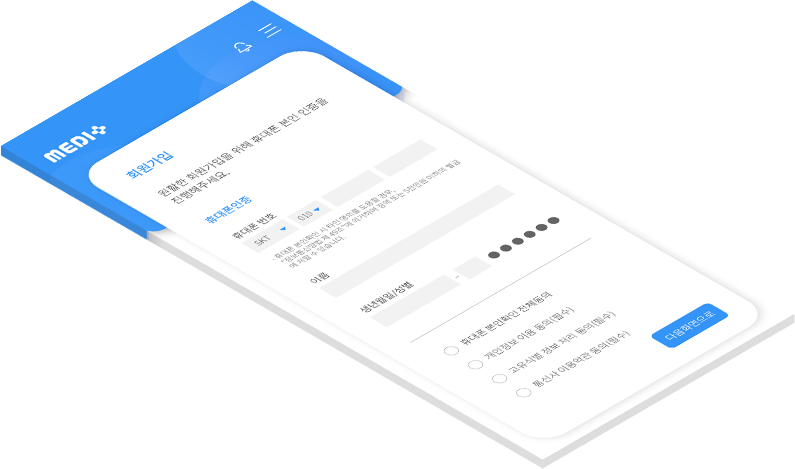
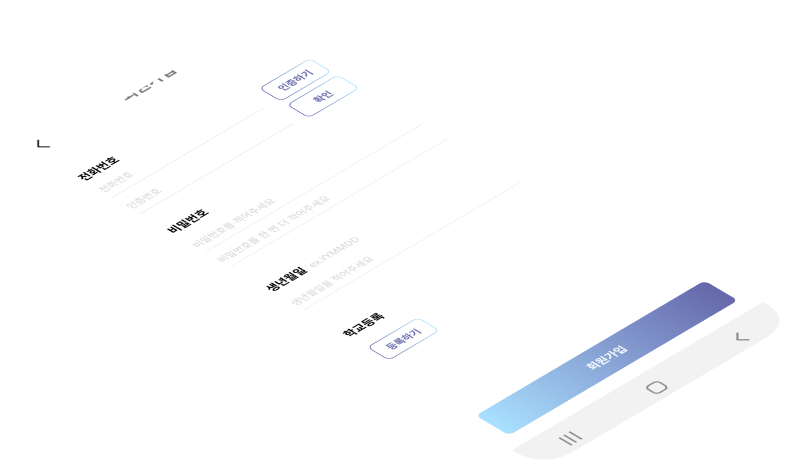
⚡ :: 디자인 & 앱 서비스 설명

diff --git a/index.html b/index.html
@@ -140,7 +140,6 @@
                             </div>
                             <p>Set up Auto Nickname</p>
                         </div>
-
                         <div class="app-box" ontouchstart="this.classList.toggle('hover');">
                             <div class="box-wrap">
                                 <div class="box">나이스 API를 통한<br/>학교 검색</div>
@@ -309,7 +308,7 @@
                         <p class="sub-title-2">키워드로 3가지 디자인 방향성을 설정했습니다.</p>
                         <p class="content">
                             딱딱한 이미지를 완화 시켜줄 부드러운 곡선과 사용자의 편의성을 고려한 UX / UI 디자인.<br />
-                            의료 서비스인 만큼 신뢰를 느낄 수 있도록 하는 것을 중점으로 디자인하였습니다.
+                            익명 서비스인 만큼 신뢰를 느낄 수 있도록 하는 것을 중점으로 디자인하였습니다.
                         </p>
                         <div class="keywordWrap">
                             <!-- 동그라미 svg -->
@@ -424,33 +423,29 @@
                     <p class="title pop">Design</p>
                     <div class="box-wrapper">
                         <div class="box">
-                            <p class="title">SYMBOL MARK</p>
-                            <div class="line"></div>
-                            <div class="img-wrap">
-                                <img src="./images/design-logo-sketch.png" width="263" alt="" />
-                                <img src="./images/design-logo.png" width="163" alt="" />
-                            </div>
-                        </div>
-                        <div class="box">
-                            <p class="title">LOGO IDENTITY</p>
-                            <div class="line"></div>
-                            <div class="img-wrap">
-                                <img src="./images/design-typo-logo-blue.png" width="570" alt="" />
-                                <img src="./images/design-typo-logo-black.png" width="570" alt="" />
-                            </div>
-                        </div>
-                        <div class="box">
                             <p class="title">APP ICON</p>
                             <div class="line"></div>
-                            <p class="content">
-                                우리 메디플러스에게는 기존에 없던 새로운 시도를 더하는 것으로 메디플러스의 슬로건 ’일상에<br />
-                                편리함을 더하다’ 에서 떠올린 플러스 형태입니다. 디자인 키워드를 따라 라운디한 심볼 형태와,<br />
-                                알약의 형태를 더해 의료 서비스임을 직관적으로 보여줍니다.
-                            </p>
                             <div class="img-wrap">
-                                <img src="./images/design-app-logo-white.png" width="154" alt="" />
-                                <img src="./images/design-app-logo-blue.png" width="154" alt="" />
-                                <img src="./images/design-app-logo-navy.png" width="124" alt="" />
+                                <img src="" width="40" alt="" />
+                                <img src="./images/design-logo1.png" width="163" alt="" />
+                                <img src="" width="100" alt="" />
+                                <img src="./images/design-logo2.png" width="163" alt="" />
+                            </div>
+                        </div>
+                        <div class="box">
+                            <p class="title">DESIGN ELEMENTS</p>
+                            <div class="line"></div>
+                            <p class="content">대표 컬러와 서브 컬러로 그라데이션을 넣어 디자인 하였습니다.</p>
+                            <div class="img-wrap">
+                                <img src="./images/elements.png" alt="" />
+                            </div>
+                        </div>
+                        <div class="box">
+                            <p class="title">POST DETAILES</p>
+                            <div class="line"></div>
+                            <p class="content">제목, 내용, 닉네임 등 간략한 정보를 한 눈에 보기 쉬운 UI입니다.</p>
+                            <div class="img-wrap">
+                                <img src="./images/post.png" width="480" alt="" />
                             </div>
                         </div>
                         <div class="box">
@@ -494,7 +489,7 @@
                     <div class="base-service join">
                         <img src="./images/app-join.png" alt="회원가입 화면" />
                         <div class="discript">
-                            <p>개인화 맞춤형 알림 서비스 제공</p>
+                            <p>나이스 API를 통해 학교 등록 및 본인 인증</p>
                             <div class="dis-line"></div>
                         </div>
 
@@ -502,15 +497,11 @@
                             <img src="./images/app-login.png" alt="로그인 화면" />
                             <div class="discript">
                                 <div class="dis-line"></div>
-                                <p>보안성을 고려한 인증절차</p>
+                                <p>전화번호와 비밀번호로 간편하게 로그인</p>
                             </div>
                         </div>
                         <div class="base-service main">
-                            <img src="./images/app-main.png" alt="메인 화면" />
-                            <div class="discript">
-                                <div class="dis-line"></div>
-                                <p>개인화 맞춤형 알림 서비스 제공</p>
-                            </div>
+                            <img src="./images/app-splash.png" alt="스플래쉬 화면" />
                         </div>
                     </div>
                 </section>
@@ -519,36 +510,36 @@
                 <section class="app-deli">
                     <h2 class="pop">App Service</h2>
                     <div class="text-area">
-                        <h3><span class="pop">01</span><br />처방 전달 시스템</h3>
+                        <h3><span class="pop">01</span><br />타임라인</h3>
                         <p>
-                            이제는 터치 한번으로 해결하세요! <br />
-                            처방 전달 시스템을 통해 간편하고 <br />
-                            빠르게 처방받고, 원하는 시간대를 <br />
-                            선택해 수령받을 수 있습니다.
+                            다른 학교 친구들은 어떤 고민을 가지고 <br />
+                            어떤 관심사를 갖고 있는지 확인해보세요! <br />
+                            맘에 드는 글을 하트를 눌러 찜 할 수 있고 <br />
+                            댓글을 달아 자신의 의견을 표현할 수 있어요!
                         </p>
                     </div>
-                    <img class="deli-illust" src="./images/deli-illust.png" alt="delivery-illust" />
+                    <img class="deli-illust" src="./images/like_ill.png" alt="" />
                     <div class="mockup-contents">
-                        <img class="deli-mockup" src="./images/app-delivery1.png" alt="delivery-mockup" />
+                        <img class="deli-mockup" src="./images/app-timeline.png" alt="" />
                     </div>
-                    <img class="deli-popup-1" src="./images/app-delivery2.png" alt="delivery-popoup" />
-                    <img class="deli-popup-2" src="./images/app-delivery3.png" alt="delivery-popoup" />
+                    <img class="deli-popup-1" src="./images/app1.png" width="900" alt="" />
+                    <img class="deli-popup-2" src="./images/app1.png" width="900" alt="" />
                 </section>
             </div>
             <div class="section">
                 <section class="app-gps">
                     <h2 class="pop">App Service</h2>
                     <div class="text-area">
-                        <h3><span class="pop">02</span><br />주변 약국 찾기</h3>
+                        <h3><span class="pop">02</span><br />내 학교 기능</h3>
                         <p>
-                            늦은 시간에 약국에 방문할 수 없어 불편함을<br />겪은 경험이 있으신가요? 이제는 메디플러스로<br />이용해보세요. 나의 주변 약국을 모두 찾아 <br />
-                            직접 안내해드립니다.
+                            우리 학교에 재학중인 친구들의 글만<br />보고싶은 경험이 있으신가요? 이제는 Shade를<br />이용해보세요. 학교 재학생들의 생생한<br />
+                            이야기를 들을 수 있어요.
                         </p>
                     </div>
-                    <img class="gps-illust" src="./images/gps-illust1.png" alt="gps-illust" />
+                    <img class="gps-illust" src="./images/school_ill.png" alt="" />
                     <div class="gps-mock">
-                        <img src="./images/app-location1.png" alt="" />
-                        <img src="./images/app-location2.png" alt="" />
+                        <img src="./images/app-school.png" alt="" />
+                        <img src="./images/app-location2.png" alt="" /> <!--이미지 수정 필요-->
                     </div>
                 </section>
             </div>
@@ -581,13 +572,13 @@
                     </div>
                     <div class="list-wrap">
                         <ul>
-                            <li>복용알림</li>
-                            <li>응급처치</li>
-                            <li>환경캠페인</li>
+                            <li>게시글 작성</li>
+                            <li>대나무숲 삭제</li>
+                            <li>학교 변경</li>
                         </ul>
                     </div>
                     <div class="content-wrap">
-                        <p class="service-title">복용알림</p>
+                        <p class="service-title">게시글 작성</p>
                         <p class="service-content">
                             복용중인 약 혹은 영양제들을 알림 설정을 통해<br>
                             지정한 시간대에 복용하라는 알림 기능을 제공하여<br>
@@ -595,7 +586,7 @@
                         </p>
                     </div>
                     <div class="content-wrap">
-                        <p class="service-title">응급처치</p>
+                        <p class="service-title">대나무숲 삭제</p>
                         <p class="service-content">
                             언제 발생할지 모르는 응급상황이 왔을 때 각 상황에 맞게<br> 
                             대처할 수 있게 메디플러스가 도와줍니다. 상황에 맞는<br>
@@ -603,7 +594,7 @@
                         </p>
                     </div>
                     <div class="content-wrap">
-                        <p class="service-title">환경캠페인</p>
+                        <p class="service-title">학교 변경</p>
                         <p class="service-content">
                             무자비하게 버려져 환경을 파괴하는 폐약을 메디플러스<br>
                             키오스크를 통하여 수거하고 지구를 지켜요. 폐약수거에<br>

diff --git a/css/background.css b/css/background.css
@@ -2,25 +2,20 @@ section#background {
     width: 100vw;
     height: 100vh;
     position: absolute;
-    /* display: flex;  */
     left: 0;
     top: 0;
     z-index: -999;
     overflow: hidden;
-    /* transform:translate(50%, 50%); */
 }
 section#background > div#main-back {
-    /* margin-left: 50vw; */
     position: absolute;
     width: 50%;
     height: 300%;
     left: 50%;
     top: 0%;
-    /* background-color: #fff; */
     /* 메인컬러 */
     background-color: #6667AB;
     transition: all 1.5s ease-in-out;
-    /* transform: rotateZ(90deg); */
 }
 section#background > div#yellowBG {  
     background-color: #A9E0FF; 

diff --git a/css/design-color.css b/css/design-color.css
@@ -46,5 +46,5 @@ section.design-color > .right > .bottom > .black > .black-wrap {
     display: flex; flex-direction: column; justify-content: space-between; position: absolute; top: 30px; left: 60px; bottom: 30px;
 }
 section.design-color > .right > .bottom > .yellow span {margin-right: 30px;}
-/* section.design-color > .right > .bottom > .yellow sub {position: absolute; top:} */
+
 section.design-color > .right > .bottom > .black {color: white; position: relative;}

diff --git a/css/menu.css b/css/menu.css
@@ -34,7 +34,7 @@ div.menu > .design {
 
 div.menu > .service {
     top: 0; left: 75%;
-    background-image: url(../images/menu-service.jpg);
+    background-image: url(../images/menu-service.png);
 }
 div.menu > div > p {
     z-index: 999;

diff --git a/css/common.css b/css/common.css
@@ -27,10 +27,6 @@ ol, ul {
   list-style: none;
 }
 audio, canvas, video {
-  /* display: inline-block;
-  *display: inline;
-  *zoom: 1; */
-  /* max-width: 100%; */
 }
 .fbr {
   display: flex;
